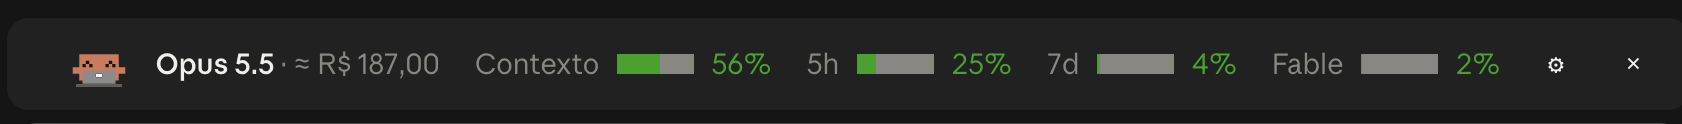
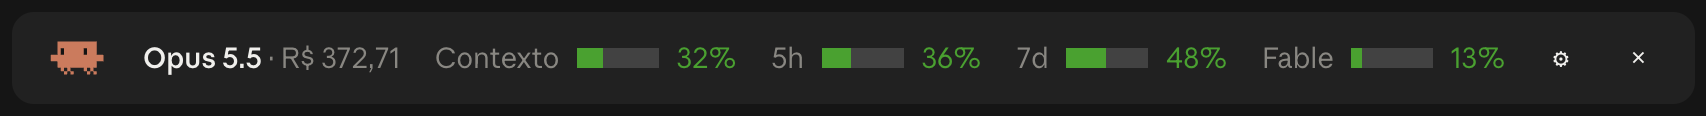
README: new desktop band screenshot without the ≈ sign
Fresh capture from the Claude desktop app (Retina, 1706x116). The alt text
now describes what it shows: Opus 5.5, R$ 372,71, Contexto 32%, 5h 36%,
7d 48%, Fable 13%, the gear and the close mark.

Changed region(s): [[0.0309, 0.3362, 0.9275, 0.6983], [0.0, 0.9828, 0.9893, 1.0], [0.9584, 0.4655, 0.9893, 0.5431]]

diff --git a/README.md b/README.md
@@ -22,7 +22,7 @@
 
 <br><br>
 
-<img src="docs/band-desktop.png" width="100%" alt="The band in the Claude desktop app: pixel crab, Opus 5.5, cost in reais, and bars for context 56%, 5h 25%, 7d 4% and Fable 2%">
+<img src="docs/band-desktop.png" width="100%" alt="The band in the Claude desktop app: pixel crab mascot, Opus 5.5, cost R$ 372,71, and bars for Contexto 32%, 5h 36%, 7d 48% and Fable 13%, then the settings gear and the close mark">
 
 <sub>In the Claude desktop app.</sub>
 
